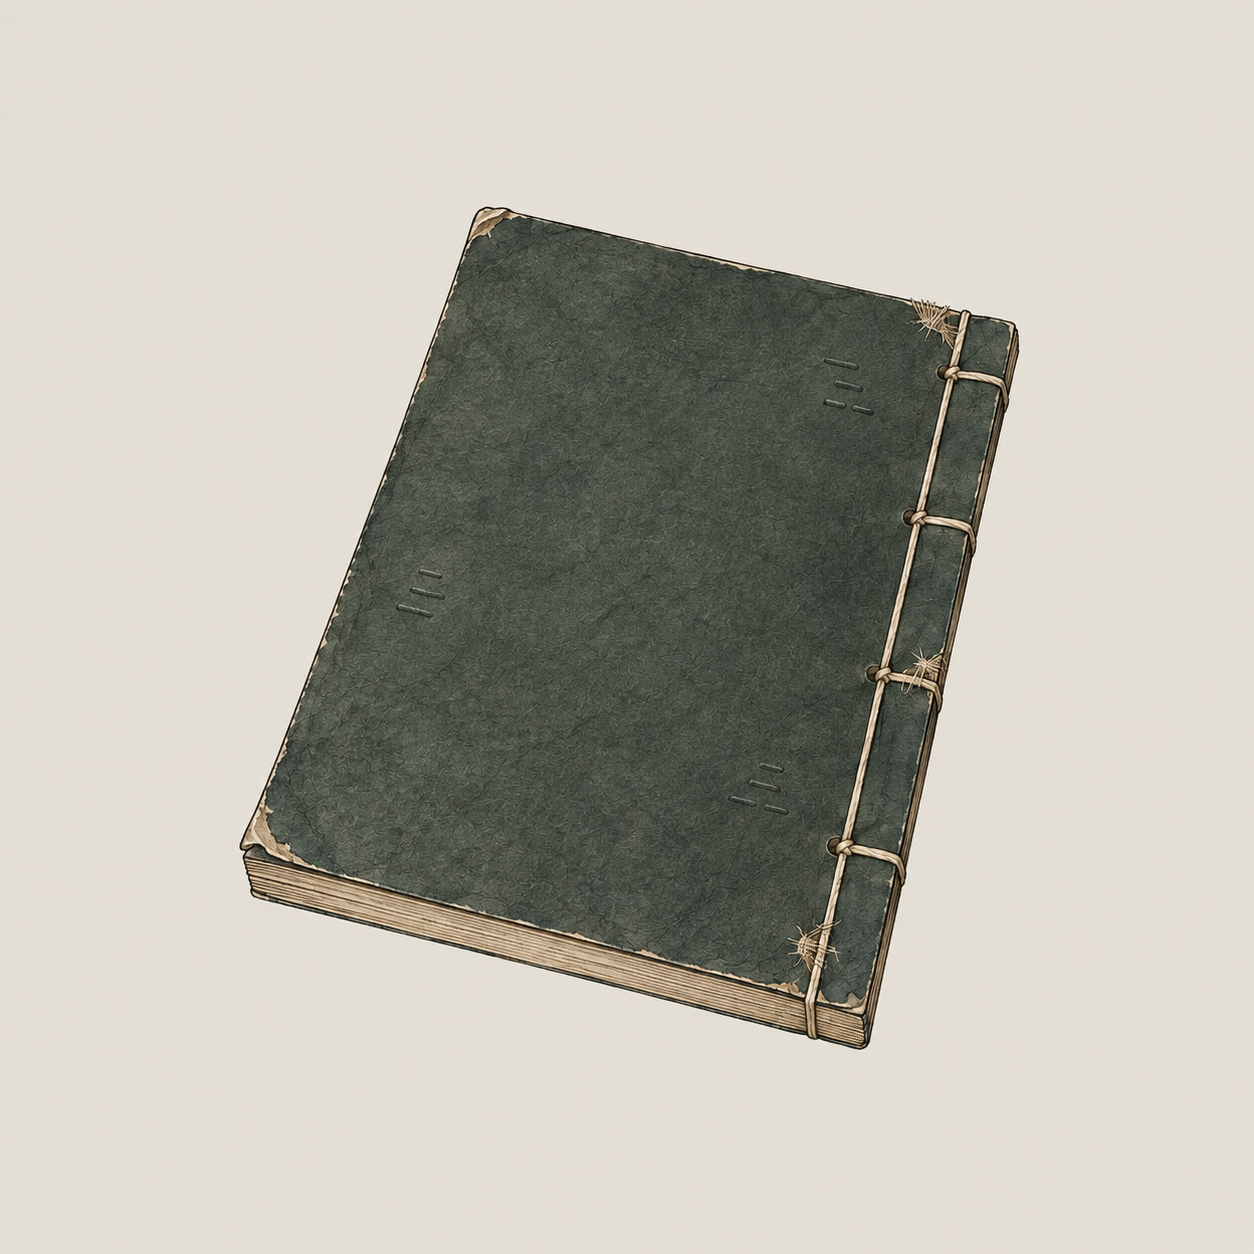
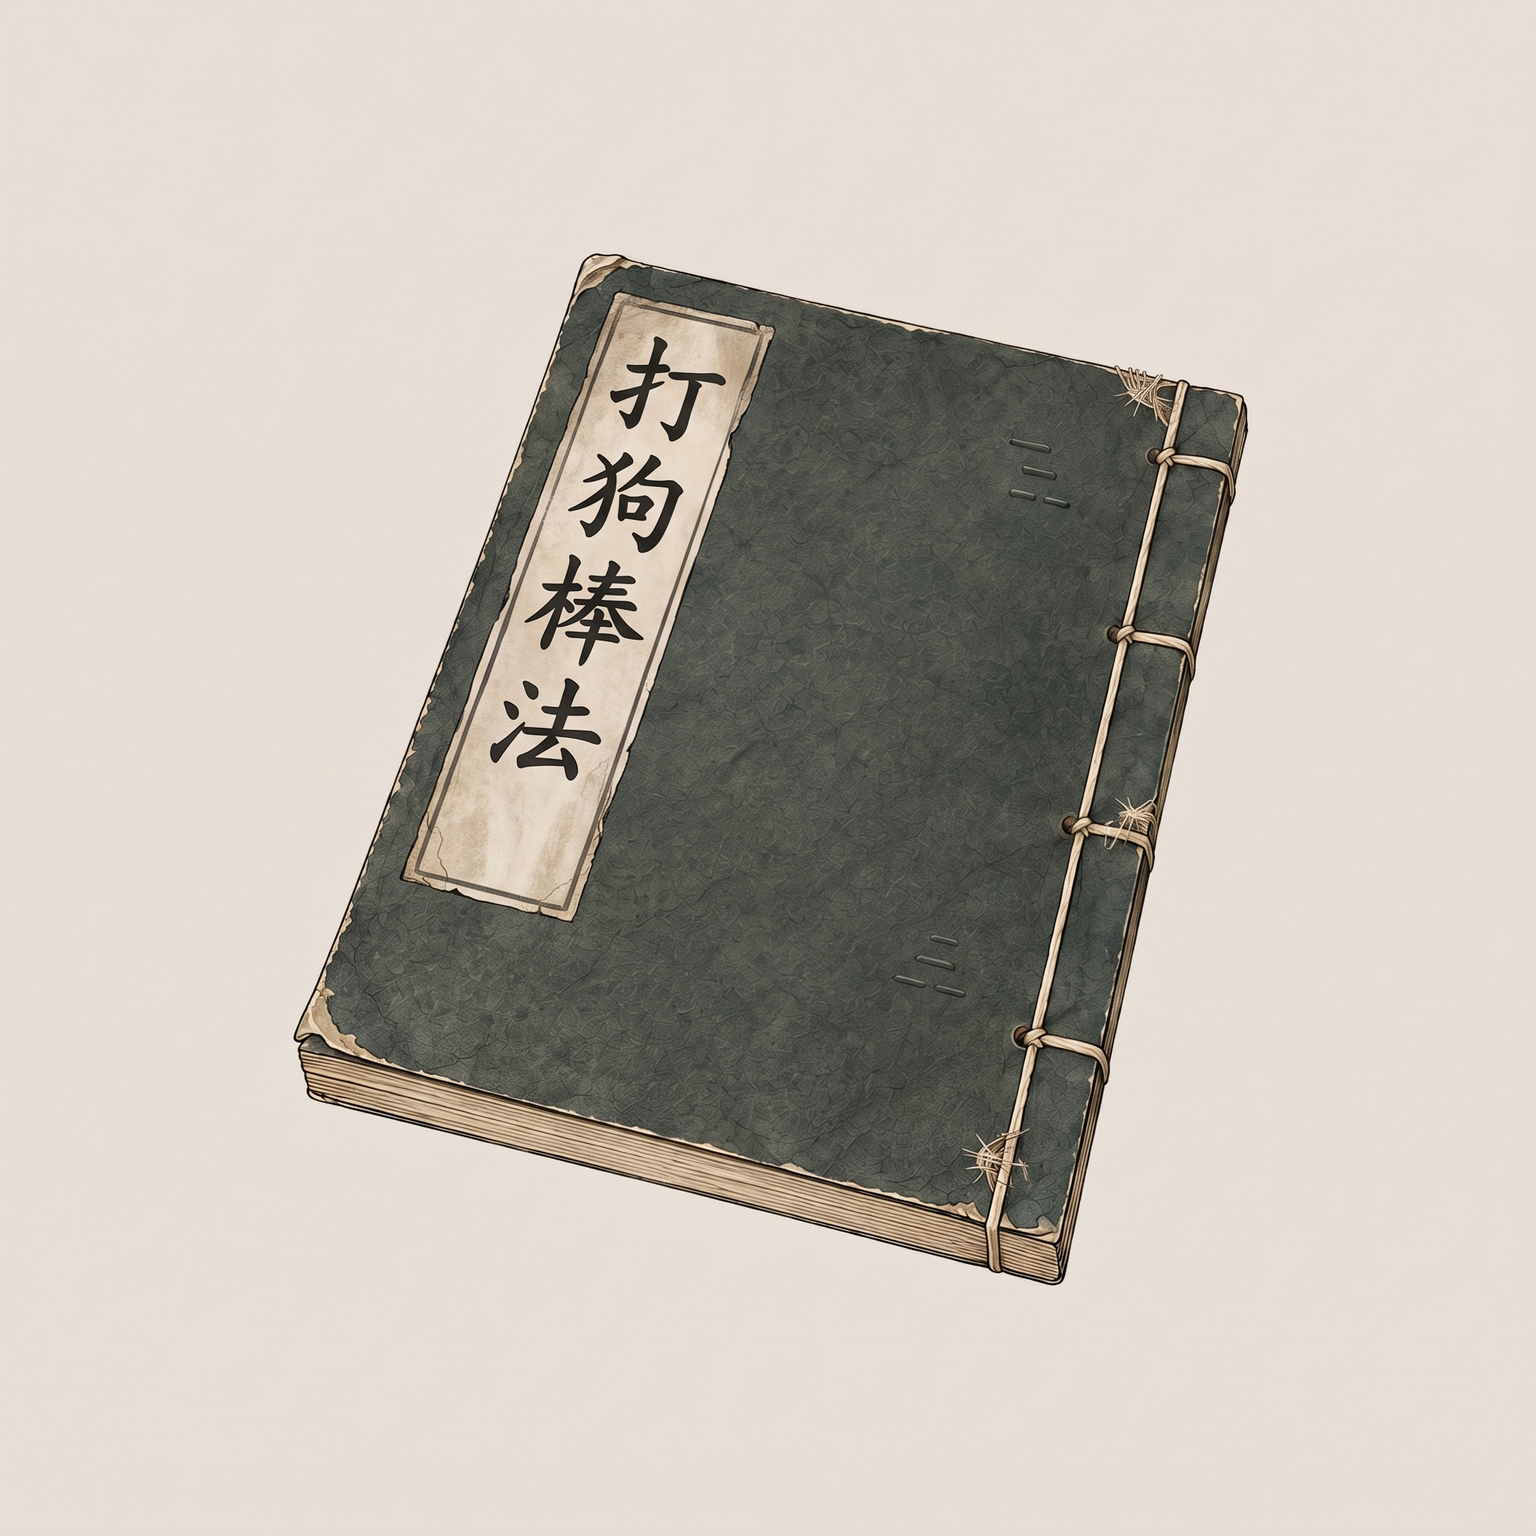
assets(gemini): it_miji_dagou_can 打狗棒法残谱

diff --git a/assets/default/prompts/INDEX.md b/assets/default/prompts/INDEX.md
@@ -3,7 +3,7 @@
 > 本文件由 `tools/agents/build_image_index.py` 生成，不要手改；改提示词就改各文件，改规程就改各组 `GUIDE.md`，然后重新生成。
 > 人物立绘另见 `characters/INDEX.md`（别的 agent 在出，不在本索引）。建筑套件与贴片已出齐，只列完成度。
 
-提示词 **627** 份：待出图 244、已入库 236、已通过（作者） 147。**待出图队列 244 行**（`python3 tools/agents/build_image_index.py --queue`）。
+提示词 **627** 份：待出图 244、已入库 237、已通过（作者） 146。**待出图队列 244 行**（`python3 tools/agents/build_image_index.py --queue`）。
 
 ## 出图 agent 怎么用
 
@@ -415,7 +415,7 @@
 | 128 | 猪肚 | `it_zhudu` | 黄 | 食材·肉 | 待出图 | [it_zhudu.md](items/food/it_zhudu.md) | template |
 | 129 | 猪肉 | `it_zhurou` | 黄 | 食材·肉 | 待出图 | [it_zhurou.md](items/food/it_zhurou.md) | template |
 
-### 武学秘籍（18）· 已通过（作者） 15、已入库 3
+### 武学秘籍（18）· 已通过（作者） 14、已入库 4
 
 （已全部入库。）
 
